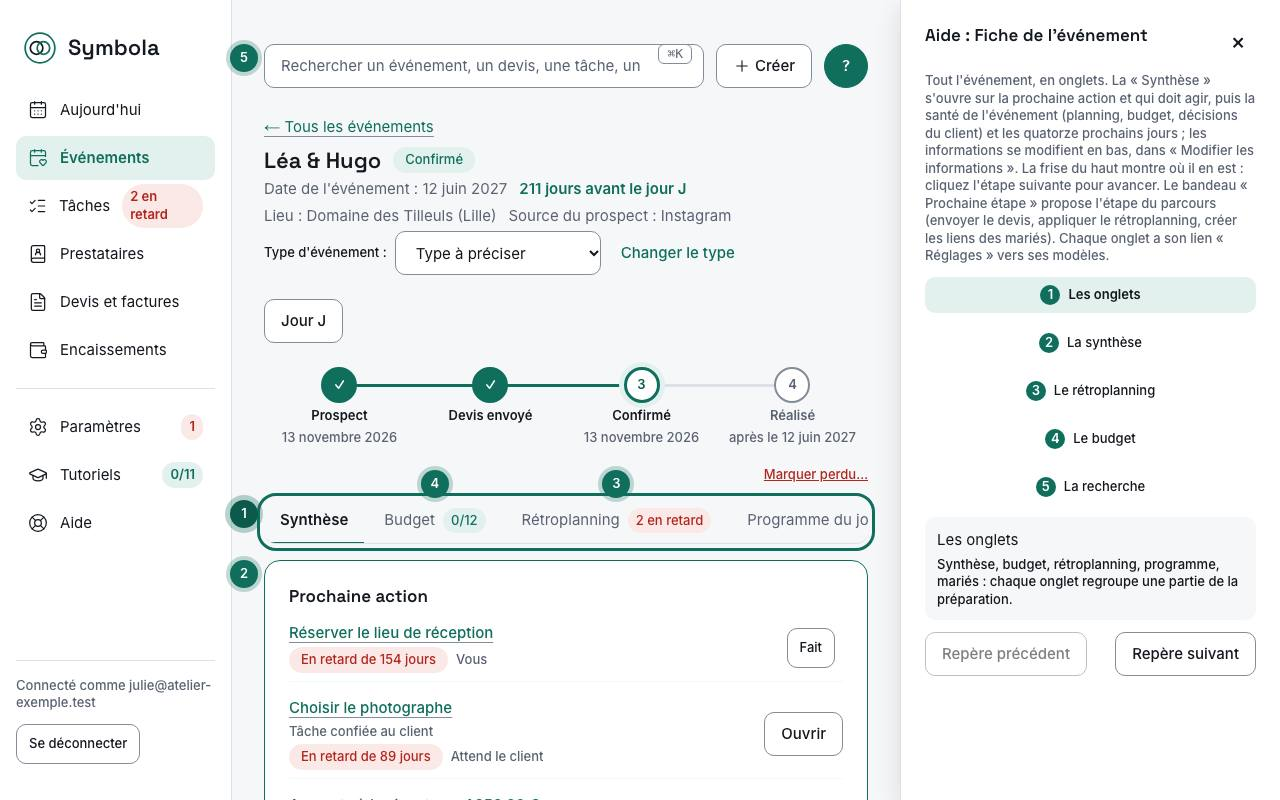
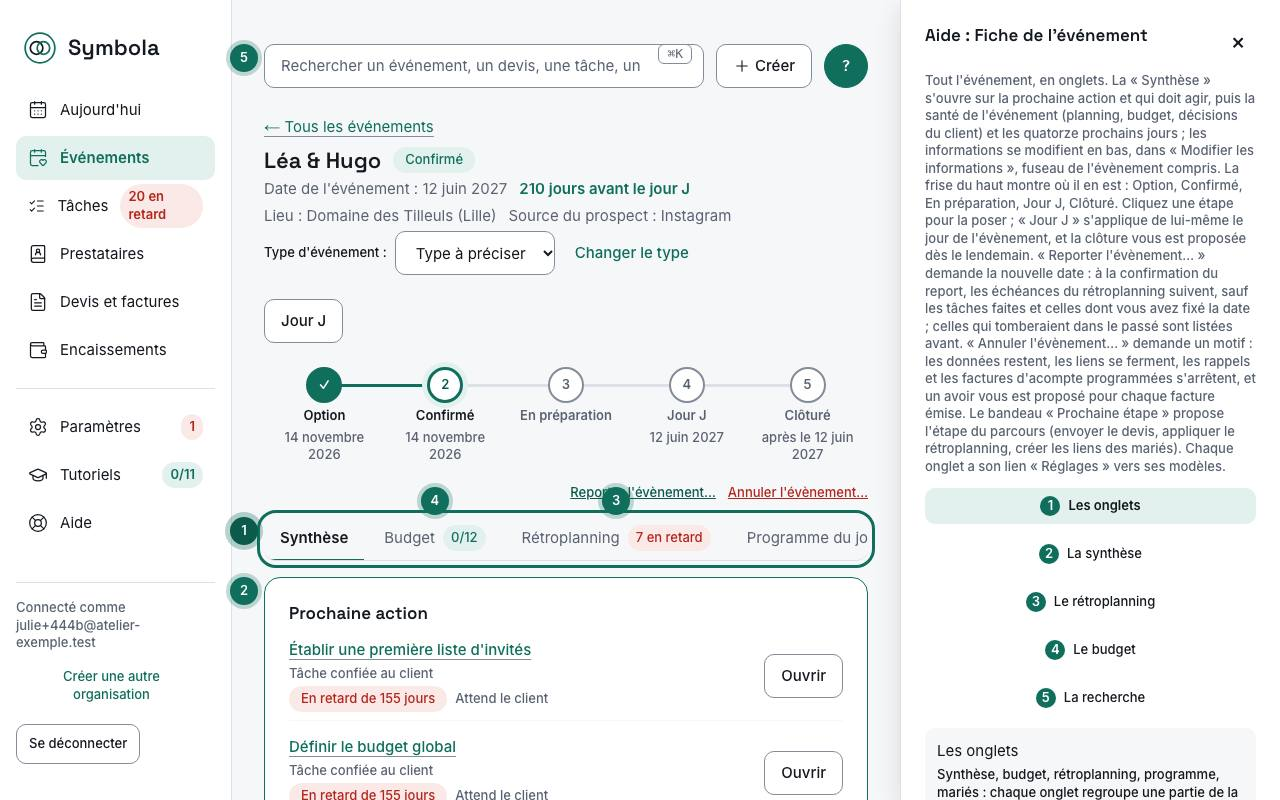
fix(aide): lot 34a, captures de la fiche, de la liste et des modèles aux nouveaux statuts ; script des captures au lien magique (EVT-05, AIDE-12, ADR 0033)
- Captures régénérées : frise Option → Clôturé, statuts du lot 34a dans la liste, modèles de
  rétroplanning. « Reporter l'évènement… » en couleur principale (rien ne s'efface), « Annuler
  l'évènement… » garde la couleur critique.
- Le script des captures se connectait par mot de passe et passait l'ancien assistant : il passe
  au lien magique et au questionnaire du lot 33 ; il n'applique plus un second rétroplanning à
  un évènement qui a reçu le sien à la création.

diff --git a/apps/symbola/captures/help.captures.ts b/apps/symbola/captures/help.captures.ts
@@ -12,9 +12,7 @@ import { join } from "node:path";
 import { createAppConnection } from "@symbola/db/client";
 import { createOrganization, createUser } from "@symbola/auth";
 import { expect, test, type Page } from "@playwright/test";
-import * as OTPAuth from "otpauth";
 import {
-  applyTaskTemplate,
   changeEventStatus,
   createProspect,
   createTaskTemplate,
@@ -29,37 +27,21 @@ import { createVendor, createVendorTag, listVendorTypes } from "../modules/vendo
 import { createPrivacyRequest, saveDocumentDetails } from "../modules/hub/service";
 import { fillRequiredMentions } from "../lib/test-fixtures/legal-mentions";
 import { HELP_SCREENS } from "../lib/help/screens";
+import { signIn } from "../e2e/helpers";
 
 const OUT = join(__dirname, "..", "public", "aide", "captures") + "/";
 
-async function login(page: Page, email: string, password: string) {
-  await page.goto("/login");
-  await page.getByLabel("E-mail").fill(email);
-  await page.getByLabel("Mot de passe").fill(password);
-  await page.getByRole("button", { name: "Se connecter" }).click();
-  await expect(page).toHaveURL(/\/mfa$/);
-  const uri = await page.locator("code").textContent();
-  const secret = new URL(uri!.replace("otpauth://totp/", "https://x/")).searchParams.get("secret")!;
-  await page.getByLabel("Code").fill(new OTPAuth.TOTP({ secret: OTPAuth.Secret.fromBase32(secret) }).generate());
-  await page.getByRole("button", { name: "Valider" }).click();
-  await expect(page).toHaveURL(/\/demarrage/);
+// Lot 33a : lien magique et fournisseur d'identité, comme les parcours (e2e/helpers.ts).
+async function login(page: Page, email: string) {
+  await signIn(page, email);
 }
 
-// Assistant de démarrage (ONB-03), comme une wedding planner : listes et modèles de départ.
+// Lot 33b (HUB-09) : le questionnaire, comme une wedding planner ; « Passer » garde les réponses
+// proposées (wedding planner, mariage, franchise en base) et charge les listes et modèles de départ.
 async function runSetup(page: Page) {
-  // Tant que le démarrage n'est pas fini, les écrans renvoient vers l'assistant.
-  await page.goto("/events");
-  await expect(page).toHaveURL(/\/demarrage/);
-  await page.getByRole("radio", { name: /Wedding planner/ }).check();
-  // Lot 18 (AIDE-13) : 7 étapes, la 4ᵉ « Vos documents » (facultative) validée telle quelle.
-  for (const step of [2, 3, 4, 5, 6, 7]) {
-    if (step === 3) await page.getByLabel("Forme juridique").selectOption("sas");
-    if (step === 4) await page.getByRole("radio", { name: /Franchise en base/ }).check();
-    await page.getByRole("button", { name: "Valider et continuer" }).click();
-    await expect(page).toHaveURL(new RegExp(`/demarrage\\?etape=${step}$`));
-  }
-  await page.getByRole("button", { name: "Terminer et découvrir Symbola" }).click();
-  await expect(page).toHaveURL(/\/\?demarrage=termine$/);
+  await page.goto("/demarrage");
+  for (let step = 1; step <= 5; step += 1) await page.getByRole("button", { name: "Passer" }).click();
+  await expect(page).toHaveURL(/\/demarrage\/pret$/);
 }
 
 async function seed(organizationId: string, userId: string) {
@@ -77,7 +59,9 @@ async function seed(organizationId: string, userId: string) {
   await changeEventStatus({ organizationId, eventId: confirmed, changedByUserId: userId, toStatus: "confirmed" });
   await changeEventStatus({ organizationId, eventId: quoted, changedByUserId: userId, toStatus: "in_preparation" });
 
-  const template = await createTaskTemplate(organizationId, "Mariage — 12 mois", [
+  // Lot 34a (EVT-01, D8) : le rétroplanning de départ est né avec chaque évènement daté ; ce
+  // modèle-ci reste dans la liste des modèles.
+  await createTaskTemplate(organizationId, "Mariage — 12 mois", [
     { label: "Réserver le lieu de réception", offsetDays: -365, responsible: "planner" },
     { label: "Choisir le photographe", offsetDays: -300, responsible: "clients" },
     { label: "Envoyer les faire-part", offsetDays: -120, responsible: "clients" },
@@ -85,7 +69,6 @@ async function seed(organizationId: string, userId: string) {
     { label: "Plan de table définitif", offsetDays: -14, responsible: "clients" },
     { label: "Briefing des prestataires", offsetDays: -7, responsible: "planner" },
   ]);
-  await applyTaskTemplate(organizationId, confirmed, template.id);
 
   const items = [
     await createCatalogItem(organizationId, { label: "Organisation complète", unit: "forfait", unitPriceCents: 450000, vatRateBasisPoints: 0, category: "Organisation" }),
@@ -167,7 +150,7 @@ test("captures des écrans pour le centre d'aide", async ({ page }) => {
   } finally {
     await sql.end();
   }
-  await login(page, email, password);
+  await login(page, email);
   await runSetup(page);
   // Lot 31a (FAC-07) : un devis ne part qu'avec les mentions requises ; valeurs fictives (SAS de
   // l'assistant : immatriculation et capital en plus).

diff --git a/apps/symbola/app/events/[id]/change-status-form.tsx b/apps/symbola/app/events/[id]/change-status-form.tsx
@@ -116,7 +116,7 @@ export function ChangeStatusForm({
       ) : (
         <div className="timeline-actions">
           {currentStatus === "confirmed" || currentStatus === "in_preparation" ? (
-            <button type="button" className="timeline-lost" aria-expanded={asking === "postpone"} disabled={busy} onClick={() => setAsking(asking === "postpone" ? null : "postpone")}>
+            <button type="button" className="timeline-lost timeline-postpone" aria-expanded={asking === "postpone"} disabled={busy} onClick={() => setAsking(asking === "postpone" ? null : "postpone")}>
               {t("postponeAsk")}
             </button>
           ) : null}

diff --git a/apps/symbola/app/globals.css b/apps/symbola/app/globals.css
@@ -1560,6 +1560,10 @@
   .timeline-lost {
     @apply self-end !min-h-0 border-0 !bg-transparent !p-0 text-label !text-critical underline;
   }
+  /* Reporter n'efface rien : couleur principale ; Annuler garde la couleur critique. */
+  .timeline-postpone {
+    @apply !text-primary-strong;
+  }
   .timeline-confirm {
     @apply flex flex-wrap items-center gap-3 rounded-md border border-line bg-ground p-3;
   }
